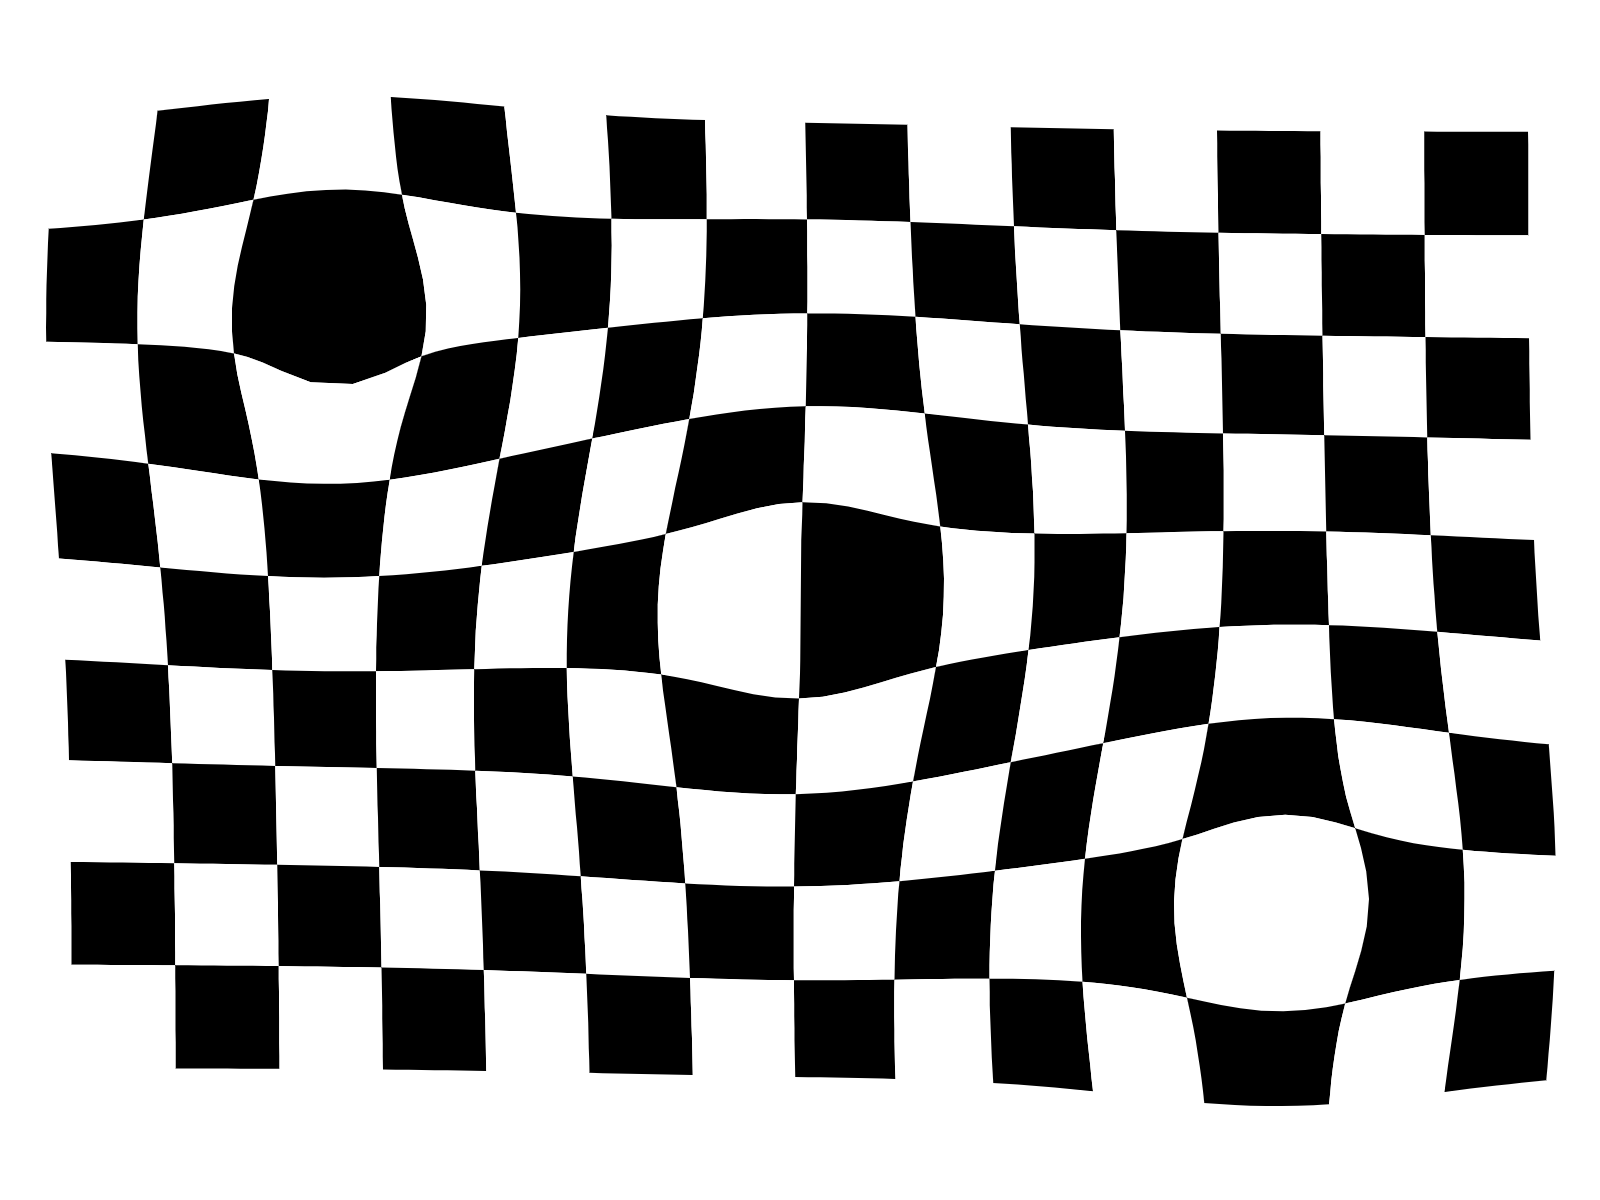
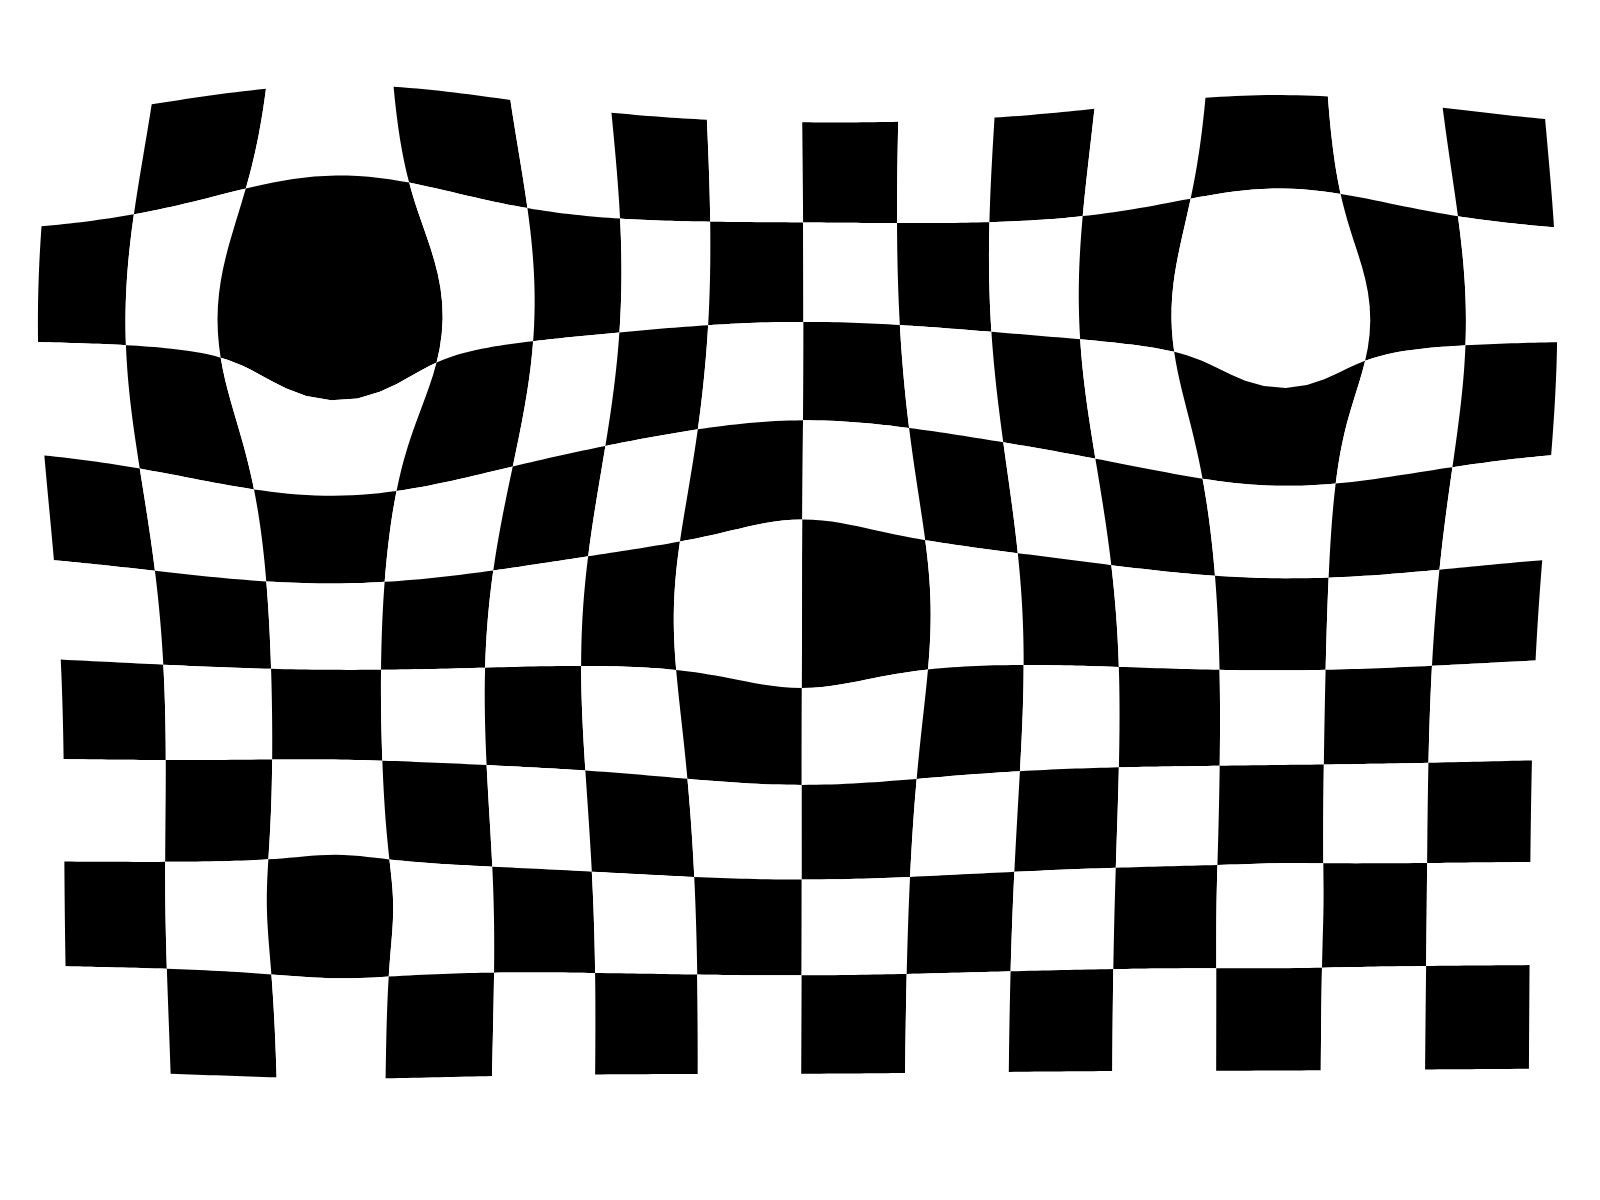
Aggiorna es1: sfondo bianco e deformazione alternata

diff --git a/es1/sketch.js b/es1/sketch.js
@@ -9,22 +9,31 @@ const canvasHeight = 600;
 const tileSize = 52;
 const gridColumns = 14;
 const gridRows = 9;
-const segmentiBordo = 8; // tratti per ogni lato della cella: più è alto, più il bordo è curvo
+const segmentiBordo = 16; // tratti per ogni lato della cella: più è alto, più il bordo è curvo
 
 // Parametri critici dell'illusione
 const rigonfiamentoForza = 32;   // spostamento massimo in pixel al picco dell'oscillazione
 const rigonfiamentoRaggio = 170; // distanza in pixel oltre la quale la forza si spegne
-const oscillationSpeed = 0.03;   // radianti per frame: meno è piccolo, più l'alternanza è lenta
+const oscillationSpeed = 0.025;  // radianti per frame: meno è piccolo, più l'alternanza è lenta
 
 // Coordinate dei centri di rigonfiamento: si muovono cambiando qui x e y
 const centriRigonfiamento = [
   { x: 400, y: 300 },
   { x: 170, y: 160 },
+  { x: 640, y: 160 },
+  { x: 170, y: 450 },
   { x: 640, y: 450 },
 ];
 
+// Ogni centro parte da un punto diverso dell'oscillazione,
+// così i rigonfiamenti non si accendono tutti insieme.
+// Math.PI esiste già all'avvio, mentre TWO_PI di p5 no: usarlo qui
+// darebbe errore prima che lo sketch parta
+const sfasamentoTraCentri = (2 * Math.PI) / centriRigonfiamento.length;
+
 function setup() {
-  createCanvas(canvasWidth, canvasHeight);
+  let tela = createCanvas(canvasWidth, canvasHeight);
+  tela.parent('sketch-holder');
 }
 
 function draw() {
@@ -32,9 +41,12 @@ function draw() {
   noStroke();
 
   // Fase 3: alternanza fra effetto presente ed assente.
-  // sin(frameCount) scende gradualmente da 1 a -1, quindi map()
-  // fa oscillare la forza fra rigonfiamentoForza (effetto) e 0 (nessun effetto)
-  let forzaCorrente = map(sin(frameCount * oscillationSpeed), -1, 1, 0, rigonfiamentoForza);
+  // sin() scende gradualmente da 1 a -1, quindi map() fa oscillare
+  // la forza fra rigonfiamentoForza (effetto) e 0 (nessun effetto).
+  // La fase aggiunta sposta l'oscillazione di ogni centro nel tempo
+  function forzaDelCentro(fase) {
+    return map(sin(frameCount * oscillationSpeed + fase), -1, 1, 0, rigonfiamentoForza);
+  }
 
   // Calcolo dei margini per centrare la scacchiera sulla tela
   let xOffset = (canvasWidth - (gridColumns * tileSize)) / 2;
@@ -42,12 +54,12 @@ function draw() {
 
   // La forza di un centro spinge il vertice lontano dal centro,
   // con un profilo gaussiano che si annulla oltre il raggio
-  function calcolaSpostamento(x, y, centro) {
+  function calcolaSpostamento(x, y, centro, forza) {
     let dx = x - centro.x;
     let dy = y - centro.y;
     let distanza = max(1, sqrt(dx * dx + dy * dy));
     let peso = exp(-(distanza * distanza) / (rigonfiamentoRaggio * rigonfiamentoRaggio));
-    let spostamento = forzaCorrente * peso;
+    let spostamento = forza * peso;
     return { x: (dx / distanza) * spostamento, y: (dy / distanza) * spostamento };
   }
 
@@ -55,7 +67,8 @@ function draw() {
   function calcolaVertice(x, y) {
     let vertice = { x: x, y: y };
     for (let i = 0; i < centriRigonfiamento.length; i++) {
-      let s = calcolaSpostamento(x, y, centriRigonfiamento[i]);
+      let forza = forzaDelCentro(i * sfasamentoTraCentri);
+      let s = calcolaSpostamento(x, y, centriRigonfiamento[i], forza);
       vertice.x += s.x;
       vertice.y += s.y;
     }
@@ -66,7 +79,7 @@ function draw() {
   // ogni tratto subisce la stessa deformazione, così la linea si curva
   // invece di restare dritta, e i due lati condivisi restano incollati
   function aggiungiLato(ax, ay, bx, by) {
-    for (let i = 0; i < segmentiBordo; i++) {
+    for (let i = 0; i <= segmentiBordo; i++) {
       let t = i / segmentiBordo;
       let v = calcolaVertice(lerp(ax, bx, t), lerp(ay, by, t));
       vertex(v.x, v.y);

diff --git a/es1/style.css b/es1/style.css
@@ -1,8 +1,8 @@
 html, body {
   margin: 0;
   min-height: 100%;
-  background: #11151d;
-  color: #edf3ff;
+  background: #ffffff;
+  color: #111111;
   font-family: Arial, Helvetica, sans-serif;
 }
 
@@ -19,19 +19,8 @@ main {
   padding: 1.25rem;
 }
 
-h1 {
-  margin: 0;
-  font-size: clamp(1.1rem, 2.2vw, 2rem);
-  letter-spacing: 0.08em;
-  text-transform: uppercase;
-}
-
 #sketch-holder {
-  width: min(90vw, 820px);
-  border: 3px solid rgba(165, 183, 255, 0.8);
-  border-radius: 18px;
-  box-shadow: 0 0 25px rgba(105, 132, 255, 0.35);
-  overflow: hidden;
+  width: min(96vw, 980px);
 }
 
 canvas {

diff --git a/es1/index.html b/es1/index.html
@@ -10,7 +10,6 @@
 </head>
 <body>
   <main>
-    <h1>es1 · illusioni in movimento</h1>
     <div id="sketch-holder"></div>
   </main>
 </body>
